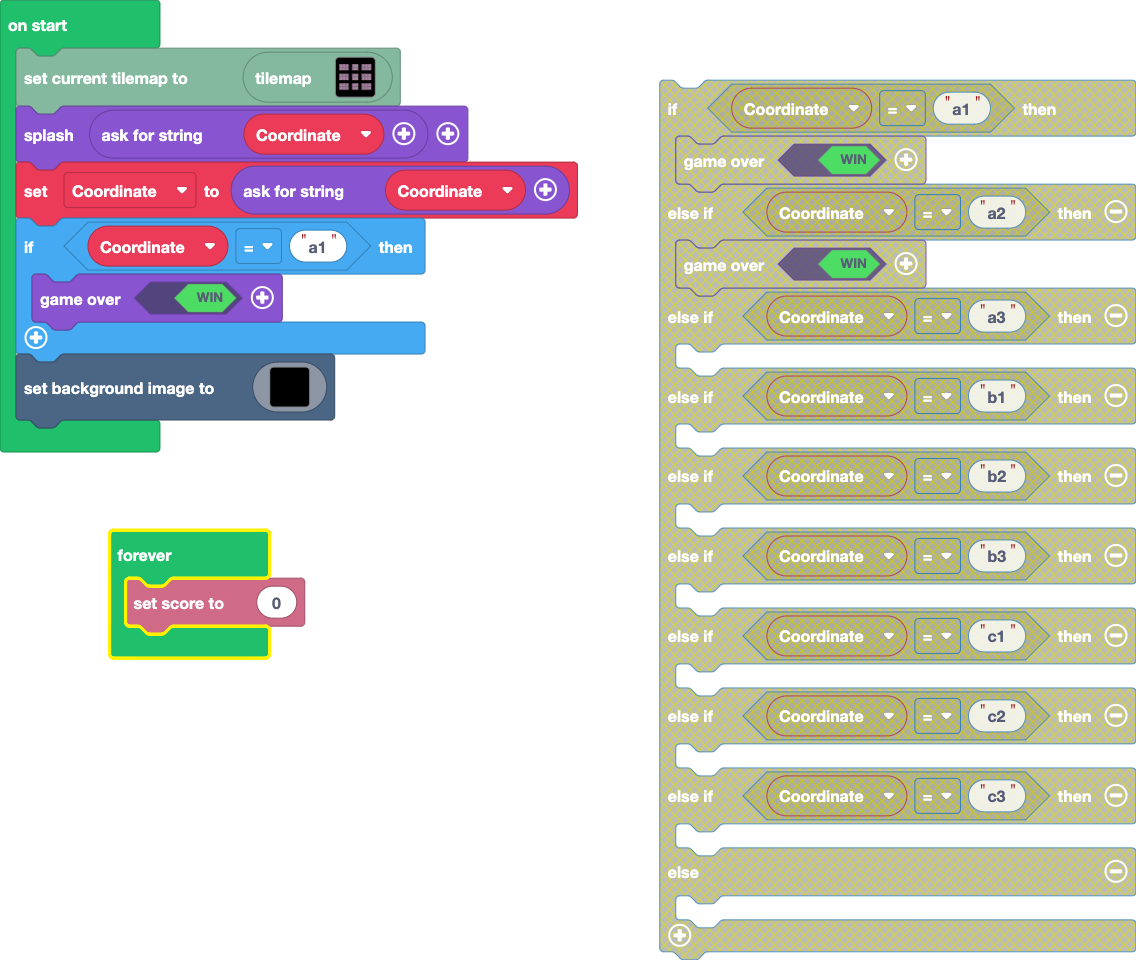
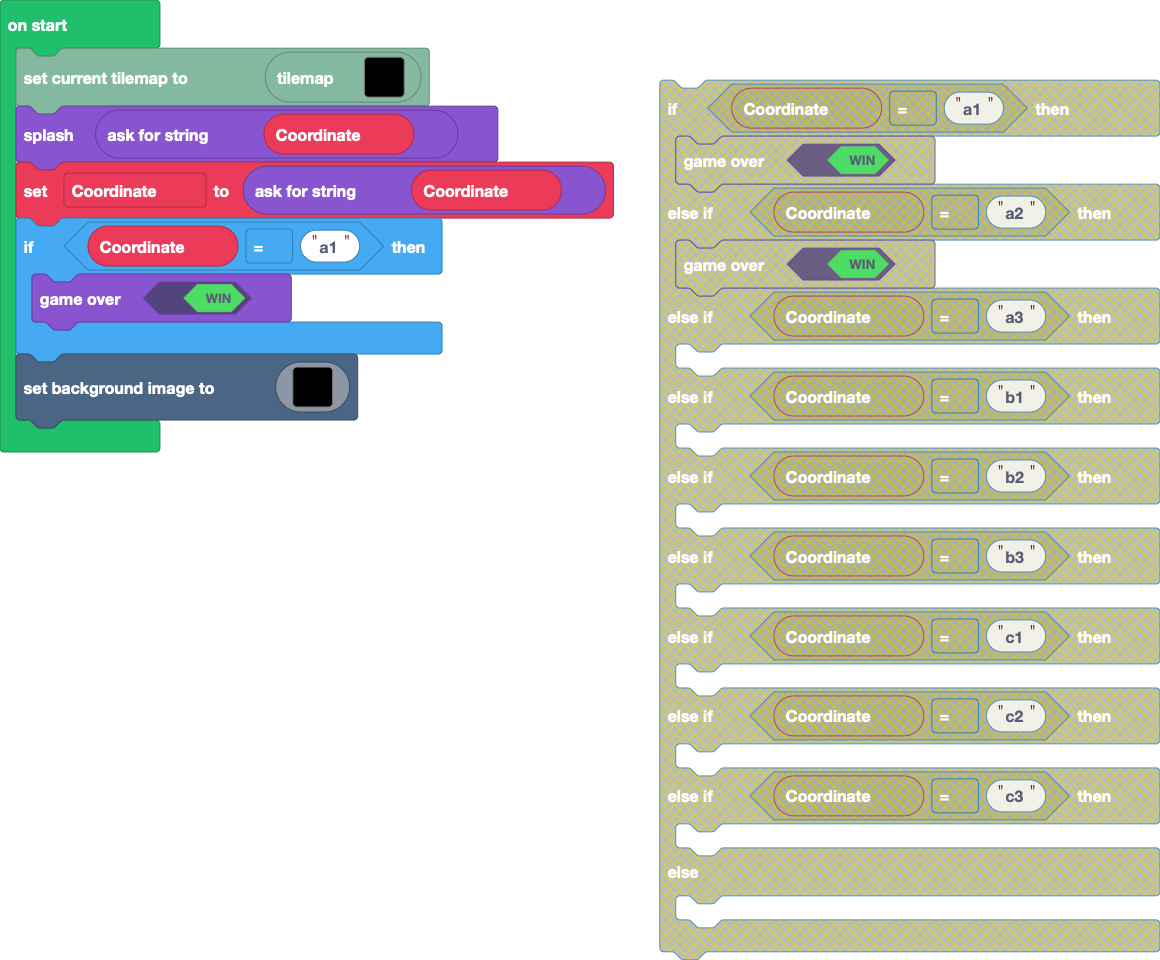
Update main.blocks, main.ts

diff --git a/main.ts b/main.ts
@@ -127,6 +127,3 @@ scene.setBackgroundImage(img`
     ................................................................................................................................................................
     ................................................................................................................................................................
     `)
-forever(function () {
-    info.setScore(0)
-})
